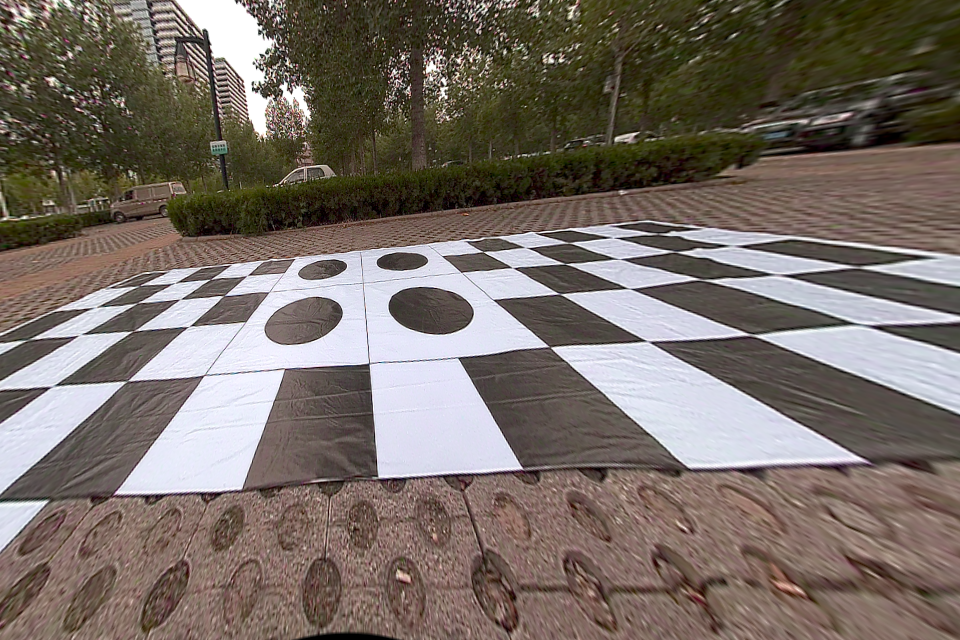
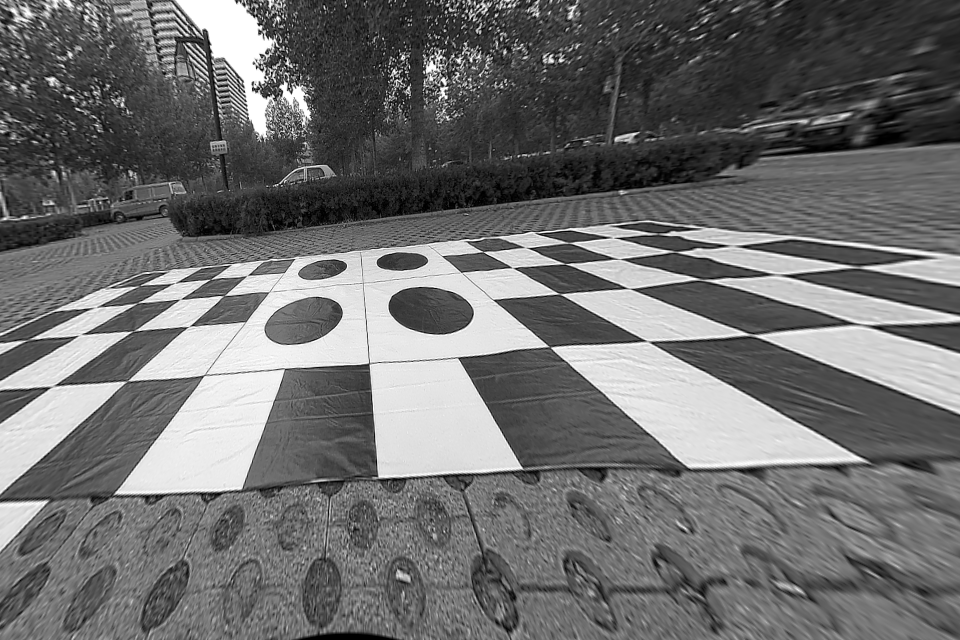
add bird view

diff --git a/main.cpp b/main.cpp
@@ -1,8 +1,9 @@
 
 #include <glog/logging.h>
 #include <opencv2/opencv.hpp>
-
 #include <iostream>
+
+#include "board_config.h"
 
 struct CameraPara
 {
@@ -11,19 +12,20 @@ struct CameraPara
     cv::Mat scale_xy;
     cv::Mat shift_xy;
 
-    friend std::ostream& operator<<(std::ostream &os, const CameraPara &para);
+    friend std::ostream &operator<<(std::ostream &os, const CameraPara &para);
 };
 
-std::ostream& operator<<(std::ostream &os,const CameraPara &para){
+std::ostream &operator<<(std::ostream &os, const CameraPara &para)
+{
     os << "intrinsic is :" << para.camera_matrix << std::endl;
-    os << "distort is :" << para.dist_coeffs<< std::endl;
-    os << "scale xy is :" << para.scale_xy<< std::endl;
-    os << "shift xy is :" << para.shift_xy<< std::endl;
+    os << "distort is :" << para.dist_coeffs << std::endl;
+    os << "scale xy is :" << para.scale_xy << std::endl;
+    os << "shift xy is :" << para.shift_xy << std::endl;
     return os;
 }
 
-
-void readCameraParams(const std::string &filename, CameraPara &para){
+void readCameraParams(const std::string &filename, CameraPara &para)
+{
 
     cv::FileStorage file_storage(filename, cv::FileStorage::Mode::READ);
 
@@ -32,46 +34,47 @@ void readCameraParams(const std::string &filename, CameraPara &para){
 
     cv::Mat dist_coeffs;
     file_storage["dist_coeffs"] >> dist_coeffs;
-    
+
     cv::Mat scale_xy;
     file_storage["scale_xy"] >> scale_xy;
 
     cv::Mat shift_xy;
     file_storage["shift_xy"] >> shift_xy;
-    
+
     para.camera_matrix = camera_matrix.clone();
     para.dist_coeffs = dist_coeffs.clone();
     para.scale_xy = scale_xy.clone();
-    para.shift_xy = shift_xy.clone(); 
+    para.shift_xy = shift_xy.clone();
 
     file_storage.release();
-
 }
 
-int main(int argc, char **argv){
+int main(int argc, char **argv)
+{
 
-    cv::Mat image = cv::imread("../data/front.png");
+    cv::Mat image = cv::imread("../data/front.png", 0);
     cv::imshow("image", image);
     cv::waitKey(0);
 
-    if(image.empty()){
+    if (image.empty())
+    {
         LOG(INFO) << "image is empty";
         return -1;
     }
 
-    //step0 : read camera params
+    // step0 : read camera params
     std::string params_path = "../data/front.yaml";
     CameraPara camera_params;
     readCameraParams(params_path, camera_params);
     LOG(INFO) << "camera para is ::::::::::::::::::::::::::::::::::::::::";
     LOG(INFO) << camera_params;
 
-    //step1 : undistort
+    // step1 : undistort
     cv::Mat new_intrinsic = camera_params.camera_matrix.clone();
-    new_intrinsic.at<double>(0,0) *= camera_params.scale_xy.at<float>(0,0);
-    new_intrinsic.at<double>(1,1) *= camera_params.scale_xy.at<float>(1,0);
-    new_intrinsic.at<double>(0,2) += camera_params.shift_xy.at<float>(0,0);
-    new_intrinsic.at<double>(1,2) += camera_params.shift_xy.at<float>(1,0);
+    new_intrinsic.at<double>(0, 0) *= camera_params.scale_xy.at<float>(0, 0);
+    new_intrinsic.at<double>(1, 1) *= camera_params.scale_xy.at<float>(1, 0);
+    new_intrinsic.at<double>(0, 2) += camera_params.shift_xy.at<float>(0, 0);
+    new_intrinsic.at<double>(1, 2) += camera_params.shift_xy.at<float>(1, 0);
     LOG(INFO) << "new intrinsic is :";
     LOG(INFO) << new_intrinsic;
 
@@ -83,23 +86,29 @@ int main(int argc, char **argv){
     cv::imshow("undistort", undistort_image);
     cv::waitKey(0);
 
-    //step2 : find correspondences
+    // step2 : find correspondences
     std::vector<cv::Point2f> image_points;
     std::vector<cv::Point2f> object_points;
 
+    image_points.emplace_back(231, 264);
+    image_points.emplace_back(535, 233);
+    image_points.emplace_back(53, 387);
+    image_points.emplace_back(862, 324);
 
+    BoardConfig board_config;
+    board_config.getFrontBoard(object_points);
 
-    //step3: compute perspective matrix
+    // step3: compute perspective matrix
+    cv::Mat transform = cv::getPerspectiveTransform(image_points, object_points);
 
+    // step4: convert to birdview
+    cv::Mat bird_image = cv::Mat::zeros(image.size(), image.type());
+    cv::warpPerspective(undistort_image, bird_image, transform, bird_image.size());
 
+    cv::imshow("bird image", bird_image);
+    cv::waitKey(0);
 
-    //step4: convert to birdview
-
-
-
-    //step5 : stitching
-
-
+    // step5 : stitching
 
     LOG(INFO) << "hello world";
 

diff --git a/board_config.h b/board_config.h
@@ -1,0 +1,23 @@
+
+#include <vector>
+#include <opencv2/opencv.hpp>
+
+class BoardConfig{
+public:
+
+    BoardConfig() = default;
+
+    ~BoardConfig() = default;
+
+    float shift_w = 300.0;
+    float shift_h = 300.0;
+
+    void getFrontBoard(std::vector<cv::Point2f> &points){
+        points.clear();
+        points.emplace_back(shift_w + 120.0, shift_h);
+        points.emplace_back(shift_w + 480.0, shift_h);
+        points.emplace_back(shift_w + 120.0, shift_h + 160.0);
+        points.emplace_back(shift_w + 480.0, shift_h + 160.0);
+    }
+
+};
